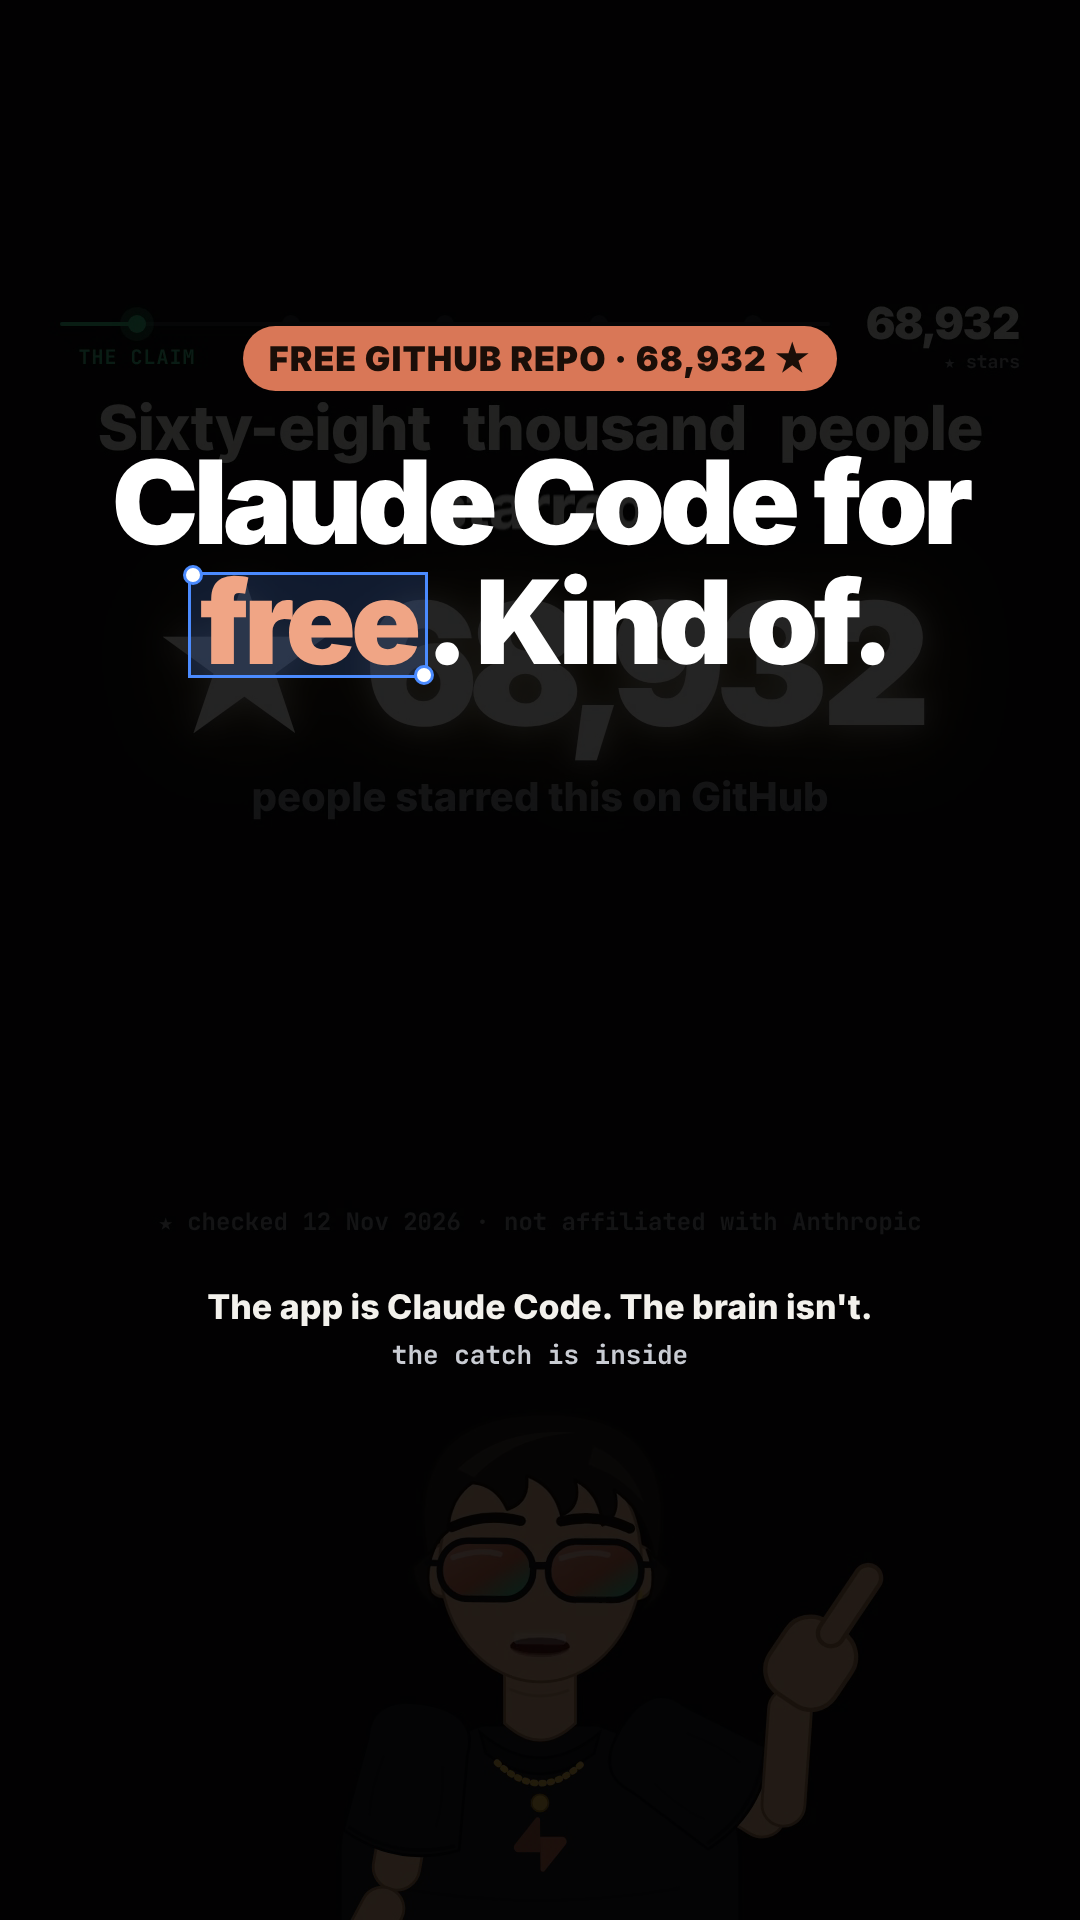
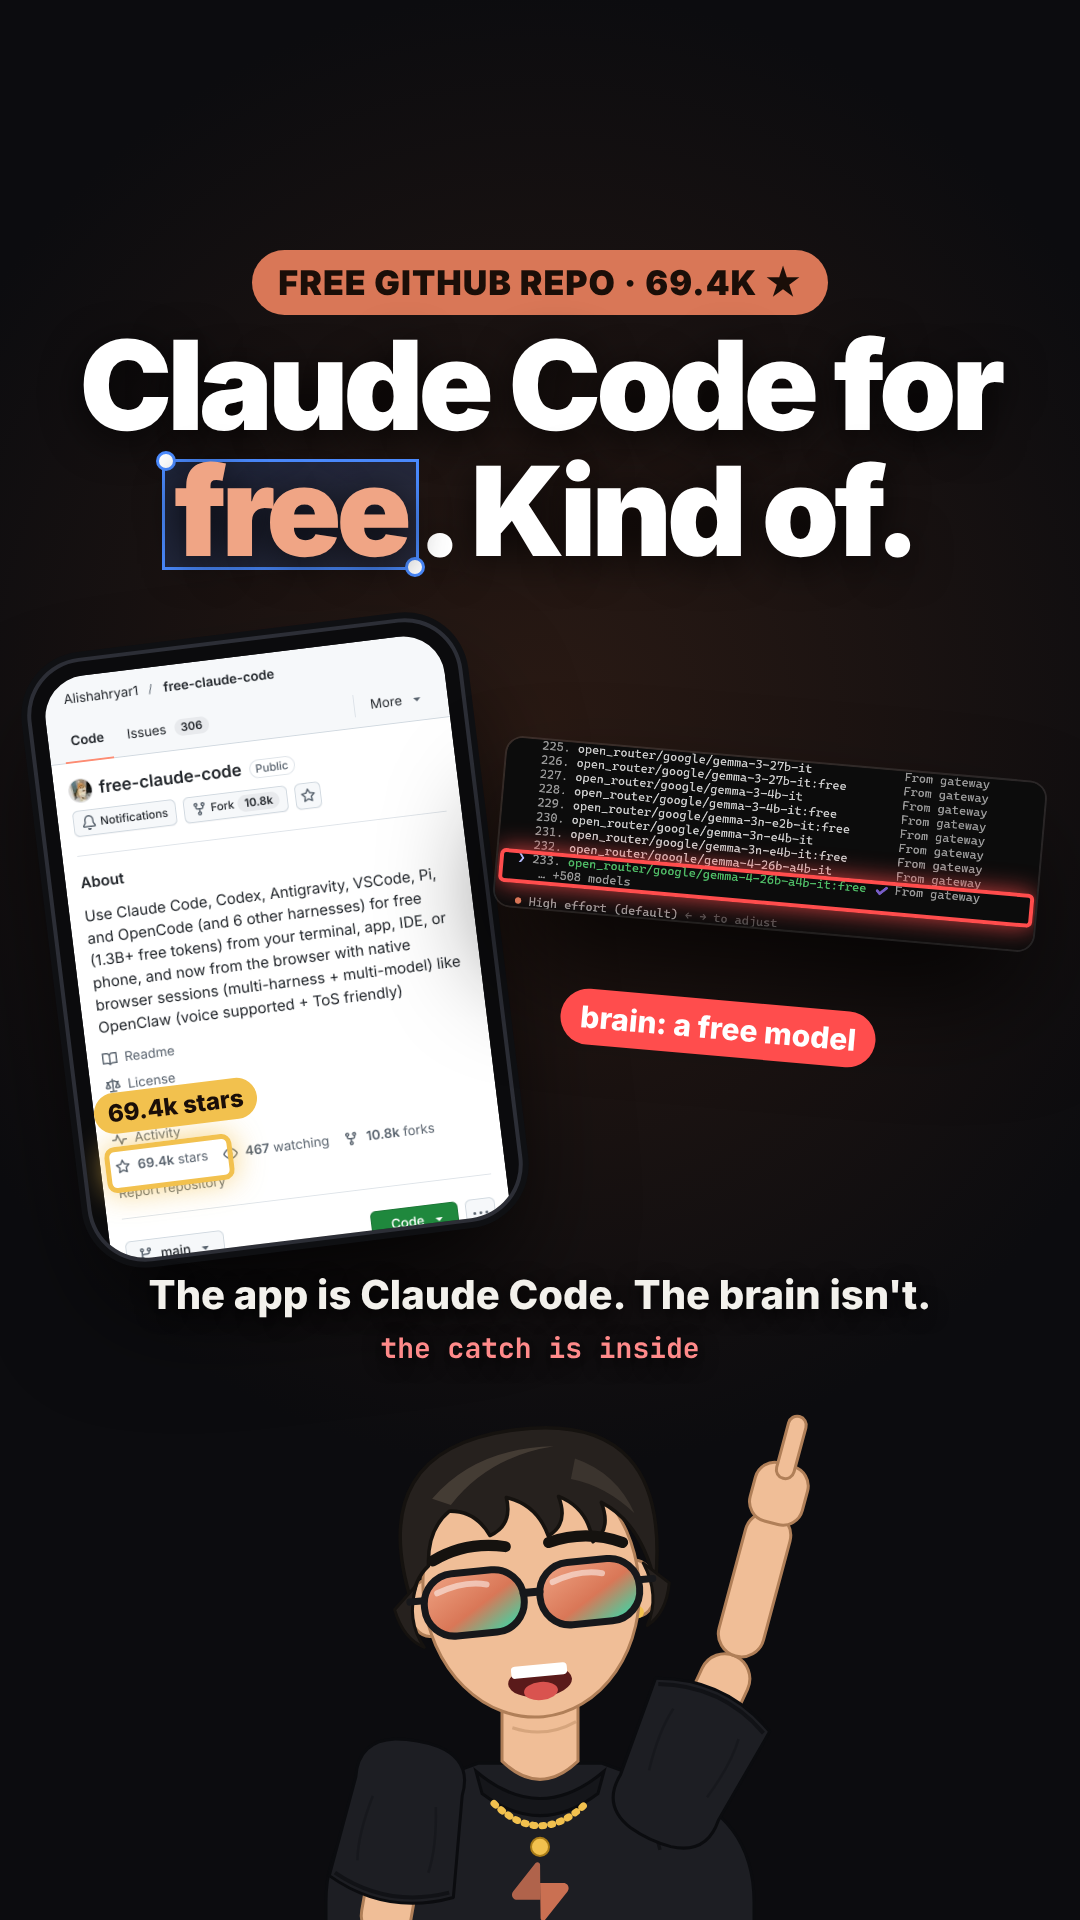
FREE cover: real GitHub and Claude Code screenshots, 69.4K stars
Claude-Session: https://claude.ai/code/session_01WnDKVy29mSHbKqgBAaKPCy

diff --git a/.claude/canwe-ai/studio/reels/free/cover2.html b/.claude/canwe-ai/studio/reels/free/cover2.html
@@ -1,0 +1,21 @@
+<!doctype html><html><head><meta charset="utf-8"><link rel="stylesheet" href="kf/kf.css"><style>
+body{margin:0;width:1080px;height:1920px;overflow:hidden;background:radial-gradient(90% 55% at 50% 38%,#2a1a14,#0c0c0f 70%);font-family:Inter}
+.ph{position:absolute;border-radius:54px;background:#0b0b0d;box-shadow:0 0 0 4px #2c2e36,0 0 0 10px #0f1013,0 60px 120px -20px rgba(0,0,0,.9);overflow:hidden}
+.ph img{position:absolute;left:14px;top:14px;border-radius:42px}
+.win{position:absolute;border-radius:16px;overflow:hidden;box-shadow:0 0 0 2px rgba(255,255,255,.1),0 60px 120px -20px rgba(0,0,0,.95)}
+.box{position:absolute;border:5px solid #F2C14E;border-radius:10px;box-shadow:0 0 30px rgba(242,193,78,.7)}
+.pill{position:absolute;padding:10px 20px;border-radius:999px;font:800 30px Inter;white-space:nowrap}
+.k{position:absolute;left:0;right:0;top:250px;text-align:center}.k span{display:inline-block;padding:12px 26px;border-radius:999px;background:#D97757;color:#1a0e08;font:900 34px Inter;letter-spacing:1px}
+h1{position:absolute;left:5%;right:5%;top:322px;margin:0;text-align:center;font:900 124px/1.02 Inter;letter-spacing:-5px;color:#fff;text-shadow:0 8px 40px rgba(0,0,0,.8)}
+.sel{position:relative;display:inline-block;padding:0 .08em}.sel i{position:absolute;inset:8% -1% 4%;border:3px solid #4b8bff;background:rgba(75,139,255,.18)}.sel em{position:absolute;width:14px;height:14px;border-radius:50%;background:#fff;border:3px solid #4b8bff}.sel b{position:relative;color:#F0A585}
+.foot{position:absolute;left:0;right:0;top:1270px;text-align:center;font:800 40px Inter;color:#F3F1EC;text-shadow:0 4px 20px #000}.foot small{display:block;margin-top:10px;font:700 28px "JetBrains Mono",monospace;color:#ff8a8a}
+.pres{position:absolute;left:240px;top:1360px;width:600px;height:700px;background:url(real/cov-pres.png) center/cover}
+</style></head><body>
+<div class="ph" style="left:60px;top:640px;width:430px;height:600px;transform:rotate(-7deg)"><img src="real/cov-gh.png" style="width:402px"><div class="box" style="left:19px;top:486px;width:118px;height:36px"></div><div class="pill" style="left:14px;top:432px;background:#F2C14E;color:#1a0e08;font-size:24px;padding:6px 14px">69.4k stars</div></div>
+<div class="win" style="left:500px;top:760px;width:540px;transform:rotate(5deg);background:#0c0c0c"><img src="real/cov-cc.png" style="display:block;width:540px"><div style="position:absolute;left:2px;right:2px;top:111px;height:26px;border:4px solid #ff4d4d;border-radius:6px;box-shadow:0 0 24px rgba(255,77,77,.8)"></div></div>
+<div class="pill" style="left:560px;top:1000px;background:#ff4d4d;color:#fff;transform:rotate(5deg)">brain: a free model</div>
+<div class="k"><span>FREE GITHUB REPO · 69.4K ★</span></div>
+<h1>Claude Code for <span class="sel"><i></i><em style="left:-8px;top:2%"></em><em style="right:-8px;bottom:-2%"></em><b>free</b></span>. Kind of.</h1>
+<div class="foot">The app is Claude Code. The brain isn't.<small>the catch is inside</small></div>
+<div id="pres" style="position:absolute;left:0;top:1330px;width:1080px;height:640px"></div>
+<script src="kf/kf.js"></script><script src="kf/avatar.js"></script><script src="kf/presenter/block.js"></script><script>const pr = KF.make("presenter", "pres", { w: 600, y: 10, style: { shirt: "#1D1E23", shirtLine: "#0B0C0F", print: "#D97757", chain: "#F2C14E", lens1: "#F0A585", lens2: "#D97757" }, poses: [[0, "point_up"]], talk: [] }); pr.frame(1, { mouth: 0.6, expr: "happy" }); window.seek = () => {};</script></body></html>

diff --git a/.claude/canwe-ai/drafts/free/post-copy.md b/.claude/canwe-ai/drafts/free/post-copy.md
@@ -22,6 +22,6 @@ The app is Claude Code. The brain is a free model. Great for practice, not for y
 ## YouTube Short title
 Claude Code for FREE? Here's what's actually answering #shorts
 ## Cover
-kicker "FREE GITHUB REPO · 69.4K ★" · headline "Claude Code for {free}. Kind of." · foot "The app is Claude Code. The brain isn't." → out/cover.png
+kicker "FREE GITHUB REPO · 69.4K ★" · headline "Claude Code for {free}. Kind of." · two real screenshots: the GitHub page (69.4k stars boxed) and Claude Code's /model picker (free model boxed red, "brain: a free model") · foot "The app is Claude Code. The brain isn't." · presenter pointing up → reels/free/cover2.html → studio/finals/free-cover.png
 ## Automation
 #84 FREE on @canwe.ai, created OFF, exact keyword FREE, follow gate, guide https://canwe-guides.vercel.app/free/ (live, dpl_Mc7siMKkqPHMR64oq5WDcExDWRRZ). On "uploaded": lock to the new media id + activate (FREE is a common word: never leave it on all reels).
